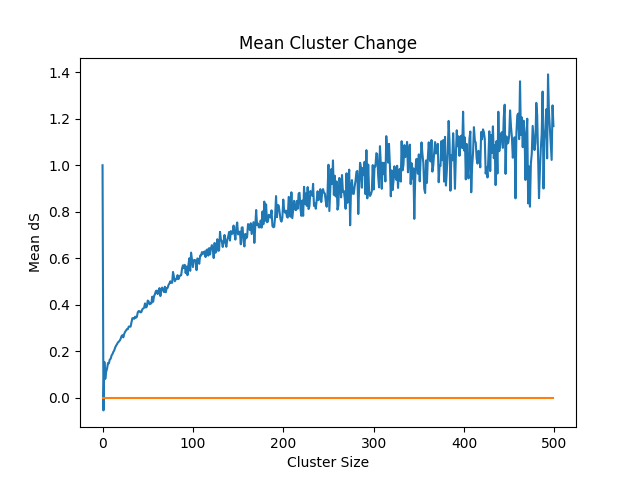
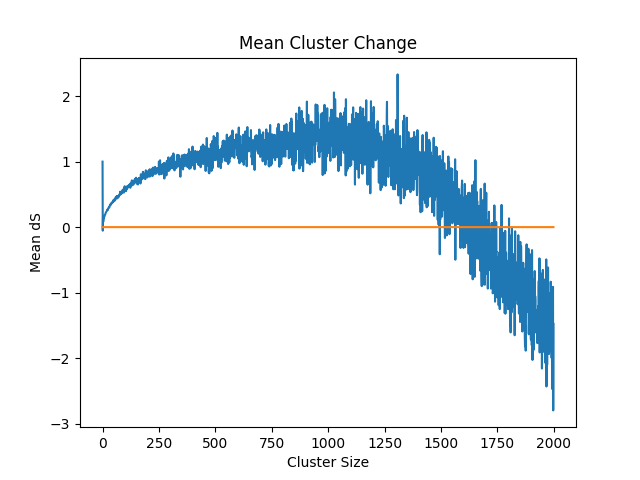
Added generic plotters

diff --git a/plotters/general.py b/plotters/general.py
@@ -1,0 +1,131 @@
+from matplotlib import pyplot as plt
+from numpy import loadtxt, transpose, zeros
+from os import path
+
+
+def plot_growth_probabilities(folder, file_prefix):
+    filename = file_prefix + "_cluster_growth_probabilities.txt"
+    cluster_data = transpose(loadtxt(open(path.join(folder, filename), 'r')))
+    sizes, growth_probabilities = cluster_data[0], cluster_data[1]
+    decay_probabilities = 1 - growth_probabilities
+
+    plt.figure()
+    plt.title("Cluster Growth and Decay Probabilities")
+    plt.xlabel("Cluster Size")
+    plt.ylabel("Probabilities")
+    plt.plot(sizes, growth_probabilities, label="Growth")
+    plt.plot(sizes, decay_probabilities, label="Decay")
+    plt.legend()
+    plt.savefig(path.join(folder, file_prefix + '_cluster_growth_probabilities.png'))
+    plt.show()
+
+
+def plot_sde(folder, file_prefix, limit):
+    filename = file_prefix + "_cluster_ds.txt"
+    cluster_ds_data = transpose(loadtxt(open(path.join(folder, filename), 'r')))
+    cluster_analyze_limit = min(limit, len(cluster_ds_data[0]))
+    cluster_ds_data = cluster_ds_data[:, :cluster_analyze_limit]
+
+    plt.figure()
+    plt.title("Mean Cluster Change")
+    plt.xlabel("Cluster Size")
+    plt.ylabel("Mean dS")
+    plt.plot(range(cluster_analyze_limit), cluster_ds_data[1])
+    plt.plot(range(cluster_analyze_limit), [0 for _ in range(cluster_analyze_limit)])
+    plt.savefig(path.join(folder, file_prefix + '_cluster_mean_ds.png'))
+    plt.show()
+
+    plt.figure()
+    plt.title("Mean Cluster Change Squared")
+    plt.xlabel("Cluster Size")
+    plt.ylabel("Mean dS^2")
+    plt.plot(range(cluster_analyze_limit), cluster_ds_data[2])
+    plt.savefig(path.join(folder, file_prefix + '_cluster_mean_ds_sq.png'))
+    plt.show()
+
+    plt.figure()
+    plt.title("Number of Cluster Changes")
+    plt.xlabel("Cluster Size")
+    plt.ylabel("Number of Changes")
+    plt.plot(range(cluster_analyze_limit), cluster_ds_data[3])
+    plt.savefig(path.join(folder, file_prefix + '_cluster_num_changes.png'))
+    plt.show()
+
+
+def plot_cluster_distribution(folder, file_prefix):
+    filename = file_prefix + "_cluster_distribution.txt"
+    cluster_distribution_data = transpose(loadtxt(open(path.join(folder, filename), 'r')))
+    cluster_sizes, num = cluster_distribution_data[0][1:], cluster_distribution_data[1][1:]
+
+    inverse_cdf = zeros(len(num))
+
+    for i in range(len(num)):
+        inverse_cdf[i] = sum(num[i:]) / sum(num)
+
+    plt.figure()
+    plt.title("Cluster Size Distribution (log-log scale)")
+    plt.xlabel("Cluster Size")
+    plt.ylabel("Inverse CDF")
+    plt.loglog(cluster_sizes, inverse_cdf, 'o')
+    plt.savefig(path.join(folder, file_prefix + '_cluster_distribution_log_log.png'))
+    plt.show()
+
+
+def plot_cluster_dynamics(folder, file_prefix):
+    filename = file_prefix + "_changes.txt"
+    changes_data = transpose(loadtxt(open(path.join(folder, filename), 'r')))
+    changes, changes_histogram = list(changes_data[0]), changes_data[1]
+    changes_probabilities = changes_histogram / sum(changes_histogram)
+
+    abs_changes = list(range(0, int(max(max(changes), -min(changes)))))
+    abs_changes_histogram = [0] * len(abs_changes)
+
+    for abs_change in abs_changes:
+        value = 0
+
+        if abs_change in changes:
+            value += changes_probabilities[changes.index(abs_change)]
+        if -abs_change in changes:
+            value += changes_probabilities[changes.index(-abs_change)]
+        
+        abs_changes_histogram[abs_change] = value
+
+    abs_changes_histogram[0] = abs_changes_histogram[0] / 2
+
+    plt.figure()
+    plt.title("Cluster Absolute Change Probabilities (log-log scale)")
+    plt.xlabel("|dS|")
+    plt.ylabel("P(|dS|)")
+    plt.loglog(abs_changes[3:], abs_changes_histogram[3:])
+    plt.savefig(path.join(folder, file_prefix + '_changes_abs_log_log.png'))
+    plt.show()
+
+    probability = zeros(len(abs_changes_histogram))
+    probability[0] = sum(abs_changes_histogram)
+
+    for i in range(1, len(abs_changes_histogram)):
+        probability[i] = probability[i - 1] - abs_changes_histogram[i - 1]
+
+    plt.figure()
+    plt.title("Cluster Absolute Change Probabilities (log-log scale)")
+    plt.xlabel("|dS|")
+    plt.ylabel("Inverse CDF")
+    plt.loglog(abs_changes[3:], probability[3:])
+    plt.savefig(path.join(folder, file_prefix + '_changes_abs_log_log_inverse_cdf.png'))
+    plt.show()
+
+if __name__ == '__main__':
+    results_path = path.join(path.dirname(path.dirname(__file__)), 'results')
+    model = "tricritical"
+    p = 0.72
+    q = 0
+    dataset = "100x100"
+
+    folder = "q" + str(q).replace('.', 'p')
+    subfolder = str(p).replace('.', 'p')
+    data_path = path.join(results_path, model, folder, dataset, subfolder)
+
+    # plot_growth_probabilities(data_path, subfolder)
+    # plot_sde(data_path, subfolder, 2000)
+    # plot_cluster_distribution(data_path, subfolder)
+    plot_cluster_dynamics(data_path, subfolder)

diff --git a/plotters/power_law.py b/plotters/power_law.py
@@ -79,13 +79,13 @@ def get_cluster_dynamics(folder, file_name):
 if __name__ == '__main__':
     results_path = path.join(path.dirname(path.dirname(__file__)), 'results')
     model = "tricritical"
-    subfolder = "q0p5"
-    dataset = "max_regime"
+    q = 0.5
+    dataset = "100x100"
 
+    subfolder = "q" + str(q).replace('.', 'p')
     phase_diagram_path = path.join(results_path, model)
     data_path = path.join(phase_diagram_path, subfolder, dataset)
     p_values = [0.5, 0.53, 0.55, 0.57]
-    q = 0.5
     num_cols = len(p_values)
 
     plt.subplots(4, num_cols, figsize=(20, 20))

diff --git a/plotters/sde.py b/plotters/sde.py
@@ -25,13 +25,13 @@ def get_mean_ds_sq(name, limit):
 if __name__ == '__main__':
     results_path = path.join(path.dirname(path.dirname(__file__)), 'results')
     model = "tricritical"
-    subfolder = "q0p5"
-    dataset = "max_regime"
+    q = 0.5
+    dataset = "100x100"
 
+    subfolder = "q" + str(q).replace('.', 'p')
     data_path = path.join(results_path, model, subfolder, dataset)
     p_values = [0.5, 0.53, 0.55, 0.57]
     cluster_limits = [100, 1000, 4000, 5000]
-    q = 0.5
     num_cols = len(p_values)
 
     plt.subplots(2, num_cols, figsize=(20, 10))
